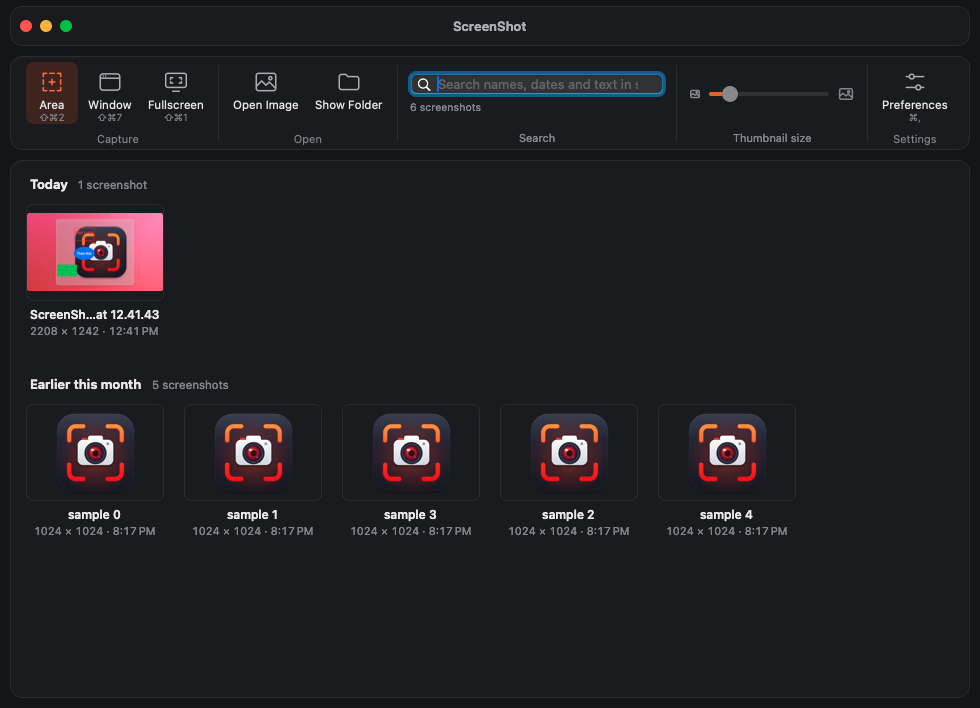
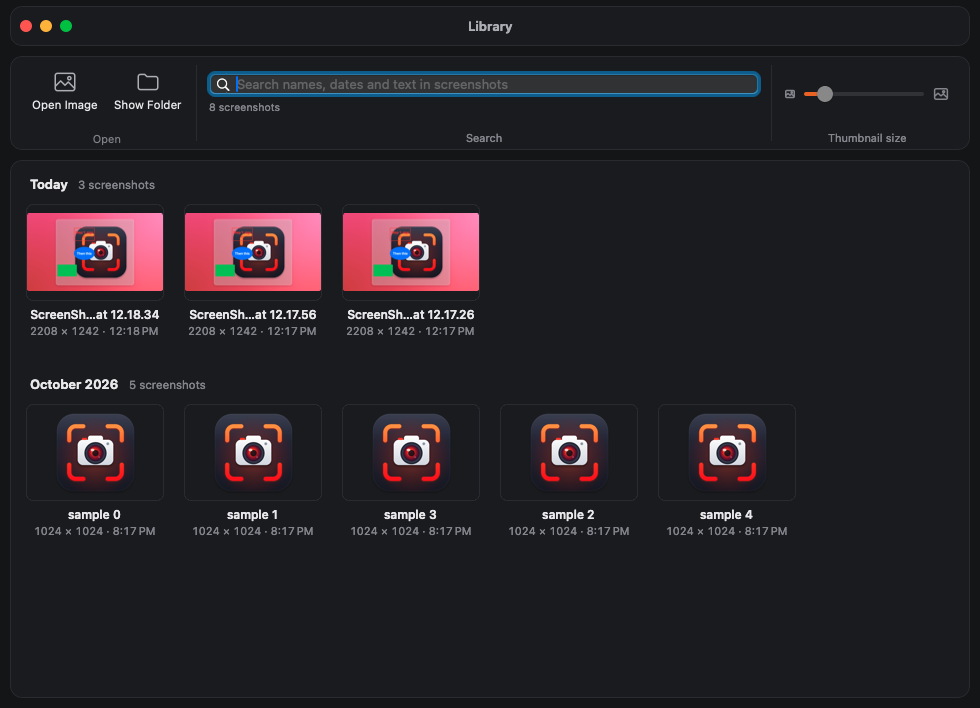
R15: the Library is a support window: no capture or Preferences buttons, closes after choosing a picture; guide, docs and screenshots updated

diff --git a/Sources/ScreenShotKit/Library.swift b/Sources/ScreenShotKit/Library.swift
@@ -2,7 +2,7 @@ import AppKit
 import ImageIO
 import Vision
 
-/// The app's home window ("Open ScreenShot") and Shottr's screenshot Library: capture buttons, then every image in the
+/// A support window of the editor (R15), Shottr's screenshot Library: every image in the
 /// Screenshots folder, newest first, with search (file name, date and the text inside the screenshot) and adjustable
 /// thumbnail size. Clicking one opens it in the editor.
 @MainActor final class LibraryWindowController: NSWindowController, NSCollectionViewDataSource, NSCollectionViewDelegate, NSSearchFieldDelegate {
@@ -26,13 +26,12 @@ import Vision
     /// The grid's sections: Today, Yesterday, Earlier this week…
     private var sections: [(title: String, items: [LibraryItem])] = []
     private let index = TextIndex.shared
-    private var captureItems: [RibbonItem] = []
 
     init() {
         let win = NSWindow(contentRect: CGRect(x: 0, y: 0, width: 1180, height: 760),
                            styleMask: [.titled, .closable, .resizable, .miniaturizable, .fullSizeContentView],
                            backing: .buffered, defer: false)
-        win.title = "ScreenShot"
+        win.title = "Library"
         // The cards draw the title bar; an empty unified toolbar centers the window's buttons on the title card.
         win.titleVisibility = .hidden
         win.titlebarAppearsTransparent = true
@@ -80,27 +79,13 @@ import Vision
         win.contentView = content
         let m = DesignTokens.Metrics.self
 
-        // Capture · Open · Search · Thumbnail size · Settings, as ribbon groups.
-        func large(_ id: String, _ title: String, _ icon: IconName, shortcut: String? = nil, action: @escaping () -> Void) -> RibbonItem {
-            let i = RibbonItem(id, kind: .large, title: title, icon: icon, action: action)
-            i.shortcut = shortcut
-            i.showsShortcut = shortcut != nil
-            return i
+        // Open · Search · Thumbnail size, as ribbon groups.
+        func large(_ id: String, _ title: String, _ icon: IconName, action: @escaping () -> Void) -> RibbonItem {
+            RibbonItem(id, kind: .large, title: title, icon: icon, action: action)
         }
-        let keys = { (a: HotkeyAction) in HotKeyCenter.shared.shortcut(for: a)?.display }
-        let area = large("area", "Area", .capArea, shortcut: keys(.area)) { AppLogic.shared.run(.area) }
-        area.isOn = true // the main action
-        let windowItem = large("window", "Window", .capWindow, shortcut: keys(.anyWindow)) { AppLogic.shared.run(.anyWindow) }
-        let fullscreen = large("fullscreen", "Fullscreen", .capFull, shortcut: keys(.fullscreen)) { AppLogic.shared.run(.fullscreen) }
-        captureItems = [area, windowItem, fullscreen]
-        let capture = RibbonGroupView(RibbonGroup("capture", title: "Capture", compactTitle: "Capture", compactIcon: .capArea,
-                                                  columns: [.large(area), .large(windowItem), .large(fullscreen)]))
         let open = RibbonGroupView(RibbonGroup("open", title: "Open", compactTitle: "Open", compactIcon: .openImage, columns: [
             .large(large("openImage", "Open Image", .openImage) { AppLogic.shared.chooseFile() }),
             .large(large("folder", "Show Folder", .folder) { NSWorkspace.shared.open(Settings.saveFolder) }),
-        ]))
-        let settings = RibbonGroupView(RibbonGroup("settings", title: "Settings", compactTitle: "Settings", compactIcon: .prefs, columns: [
-            .large(large("prefs", "Preferences", .prefs, shortcut: "⌘,") { (NSApp.delegate as? AppDelegate)?.showPreferences() }),
         ]))
 
         search.placeholderString = "Search names, dates and text in screenshots"
@@ -130,7 +115,7 @@ import Vision
         let sizeGroup = HomeToolbarGroup(title: "Thumbnail size", content: sizeRow, flexible: false)
 
         var bar: [NSView] = []
-        for (i, g) in ([capture, open, searchGroup, sizeGroup, settings] as [NSView]).enumerated() {
+        for (i, g) in ([open, searchGroup, sizeGroup] as [NSView]).enumerated() {
             if i > 0 { bar.append(HomeToolbarGroup.divider()) }
             if let gv = g as? RibbonGroupView {
                 gv.translatesAutoresizingMaskIntoConstraints = false
@@ -162,7 +147,7 @@ import Vision
         scroll.hasVerticalScroller = true
         scroll.drawsBackground = false
 
-        let title = WindowTitleCard(title: "ScreenShot"), toolbar = CardView(), grid = CardView()
+        let title = WindowTitleCard(title: "Library"), toolbar = CardView(), grid = CardView()
         toolbar.embed(row)
         grid.embed(scroll)
         for v in [title, toolbar, grid] as [NSView] {
@@ -195,7 +180,6 @@ import Vision
     /// How many screenshots the grid shows now, across its sections.
     var debugShownCount: Int { shown.count }
     var debugSectionTitles: [String] { sections.map(\.title) }
-    var debugCaptureItems: [RibbonItem] { captureItems }
     func debugOpen(at indexPath: IndexPath) { collectionView(collection, didSelectItemsAt: [indexPath]) }
     #endif
 
@@ -230,7 +214,10 @@ import Vision
     func collectionView(_ collectionView: NSCollectionView, didSelectItemsAt indexPaths: Set<IndexPath>) {
         guard let p = indexPaths.first, p.section < sections.count, p.item < sections[p.section].items.count else { return }
         collectionView.deselectAll(nil)
-        AppLogic.shared.openFile(sections[p.section].items[p.item].url)
+        let url = sections[p.section].items[p.item].url
+        AppLogic.shared.openFile(url)
+        // Its job is done; a file that couldn't be read leaves it open, with the error.
+        if AppLogic.shared.editor?.doc.fileURL?.standardizedFileURL == url.standardizedFileURL { window?.close() }
     }
 }
 

diff --git a/Sources/ScreenShotKit/FlowsSelfTest+Windows.swift b/Sources/ScreenShotKit/FlowsSelfTest+Windows.swift
@@ -170,10 +170,9 @@ extension FlowsSelfTest {
         guard let lib = LibraryWindowController.shared, let content = lib.window?.contentView else { check(false, "the home window opens"); return }
         lib.reload()
         do {
-            // Capture buttons in a ribbon-style bar, cards, day groups, the status menu's icons.
-            check(lib.debugCaptureItems.map(\.title) == ["Area", "Window", "Fullscreen"] && lib.debugCaptureItems[0].isOn,
-                  "it has Area / Window / Fullscreen buttons, Area as the main one")
-            check(lib.debugCaptureItems.allSatisfy { $0.showsShortcut && $0.shortcut != nil }, "each capture button shows its shortcut")
+            // A support window: no capture or Preferences buttons. Cards, day groups, the status menu's icons.
+            let buttons = allViews(RibbonButton.self, in: content).map(\.item.id)
+            check(buttons == ["openImage", "folder"], "it only has Open Image and Show Folder (\(buttons))")
             check(content is CanvasBackground && allViews(CardView.self, in: content).count >= 3, "the home window is made of cards")
             check(lib.debugSectionTitles.first == "Today", "screenshots are grouped by day, today first (\(lib.debugSectionTitles))")
             if let app = NSApp.delegate as? AppDelegate {
@@ -209,6 +208,7 @@ extension FlowsSelfTest {
         lib.collectionView(collection, didSelectItemsAt: [IndexPath(item: 0, section: 0)])
         await sleep(0.4)
         check(editors.contains { $0.doc.fileURL?.lastPathComponent == "lib-\(tag)-1.png" }, "clicking a result opens it in the editor")
+        check(lib.window?.isVisible == false, "and the Library closes")
         lib.window?.close()
     }
 

diff --git a/Sources/ScreenShotKit/OnboardingSteps.swift b/Sources/ScreenShotKit/OnboardingSteps.swift
@@ -380,7 +380,7 @@ final class FeatureIllustration: NSView {
             ("10:42" as NSString).draw(at: CGPoint(x: b.width - 40, y: 4), withAttributes: [.font: NSFont.systemFont(ofSize: 10), .foregroundColor: NSColor(hex: 0xF2F2F4)])
             let menu = CGRect(x: b.width - 190, y: 24, width: 156, height: 64)
             box(menu, NSColor(hex: 0x25262B), 7)
-            for (i, (icon, t, key)) in [(IconName.photo, "Open ScreenShot", "⌘L"), (.capArea, "Area Capture", "⇧⌘2"), (.capWindow, "Any Window", "⇧⌘7")].enumerated() {
+            for (i, (icon, t, key)) in [(IconName.statusMark, "Open ScreenShot", ""), (.capArea, "Area Capture", "⇧⌘2"), (.capWindow, "Any Window", "⇧⌘7")].enumerated() {
                 let row = CGRect(x: menu.minX + 3, y: menu.minY + 3 + CGFloat(i) * 19, width: menu.width - 6, height: 19)
                 if i == 1 { box(row, NSColor(hex: 0x33343A), 4) }
                 Icons.image(icon, size: 11, color: NSColor(hex: 0xB6B7BE)).draw(in: CGRect(x: row.minX + 6, y: row.minY + 4, width: 11, height: 11))

diff --git a/README.md b/README.md
@@ -24,11 +24,11 @@ The app has a Dock icon by default, and so the full menu bar while it is in fron
 
 **Clicking the Dock icon**, or opening the app from Finder or Spotlight, always shows the editor. The red button, ⌘W, Esc, Pin, Copy and Close and Save and Close only hide it, so it comes back as it was, with its undo history. With no editor yet (after launching), it opens the newest screenshot; with an empty folder, a page of capture buttons (Area, Window, Fullscreen, Open Image). **Open ScreenShot** in the menu bar menu does the same; **Library…** (⌘L) is right below it. Launching the app at login shows nothing.
 
-## Home window
+## Library
 
-**Library…** (menu bar menu, or ⌘L) opens the app's home window, made of floating cards like the editor: a ribbon-style bar with Area, Window and Fullscreen capture buttons (each with its shortcut), Open Image and Show Folder, search, the thumbnail size and Preferences; below it every screenshot, grouped by day (Today, Yesterday, Earlier this week, Earlier this month, then by month), each with its name, pixel size and time. 
+**Library…** (menu bar menu, ⌘L, or the last tile of the editor's recent strip) is a support window, made of floating cards like the editor: Open Image and Show Folder, search and the thumbnail size; below them every screenshot, grouped by day (Today, Yesterday, Earlier this week, Earlier this month, then by month), each with its name, pixel size and time. Choosing one opens it in the editor and closes the Library. 
 
-![Home window](docs/screenshots/home-dark.png)
+![Library](docs/screenshots/home-dark.png)
 
 ## Build and run
 

diff --git a/ROADMAP.md b/ROADMAP.md
@@ -224,6 +224,10 @@ Rama `ui-refactor`. Todo va detrás del ajuste `newEditorUI` (solo en debug, `de
   - [x] Con la carpeta vacía, el editor muestra una página con Área, Ventana, Pantalla completa y Abrir imagen, sobre un documento en blanco que nunca se guarda ni se puede editar.
   - [x] Menú de estado: "Open ScreenShot" abre el editor y "Library…" (⌘L) la Biblioteca.
   - [x] Verificado: flujo nuevo `editor-home` (la parte de carpeta vacía se ejecuta sin `-saveFolder`, porque ese argumento fija la carpeta). 113 tests unitarios; todas las suites de integración pasan, FLOWS 425/0 y LIVE 22/0 (1 omitida: requiere dos pantallas).
+- [x] **R15 · La Biblioteca como ventana de soporte** (petición del 1-nov-2026):
+  - [x] Fuera los botones de captura y Preferencias; quedan Abrir imagen, Mostrar carpeta, búsqueda y tamaño. Se llama "Library" y se cierra al elegir una imagen (sigue abierta si el archivo no se puede leer).
+  - [x] Guía de bienvenida, README y capturas de `docs/screenshots` al día.
+  - [x] Verificado: flujo `library` actualizado. 113 tests unitarios; todas las suites de integración pasan, FLOWS 425/0 y LIVE 22/0 (1 omitida: requiere dos pantallas).
 
 Camino crítico: R1 → R2 → R3. R4, R5 y R7 dependen de R3 pero no entre sí; R6 y R8 pueden ir en paralelo desde R2. R5b va antes de R6: cambia la colocación de la cinta, el lienzo y las barras, y conviene asentarla antes de añadir más controles. R7 (ventana de inicio) y R8 (bienvenida) deben adoptar el mismo estilo de tarjetas.
 
